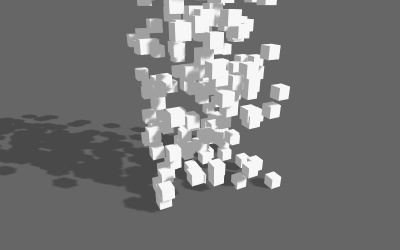
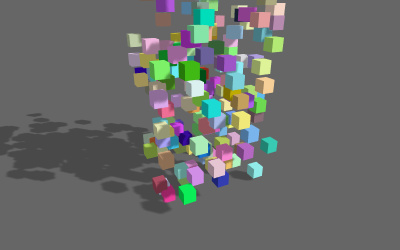
Examples: Implemented instanced color in physics_cannon_instancing.

Changed region(s): [[0.21, 0.0, 0.75, 0.868], [0.0, 0.448, 0.21, 0.756], [0.21, 0.588, 0.24, 0.616]]

diff --git a/examples/physics_cannon_instancing.html b/examples/physics_cannon_instancing.html
@@ -74,11 +74,13 @@
 				scene.add( mesh );
 
 				var matrix = new THREE.Matrix4();
+				var color = new THREE.Color();
 
 				for ( var i = 0; i < mesh.count; i ++ ) {
 
 					matrix.setPosition( Math.random() - 0.5, Math.random() * 2, Math.random() - 0.5 );
 					mesh.setMatrixAt( i, matrix );
+					mesh.setColorAt( i, color.setHex( 0xffffff * Math.random() ) );
 
 				}
 
